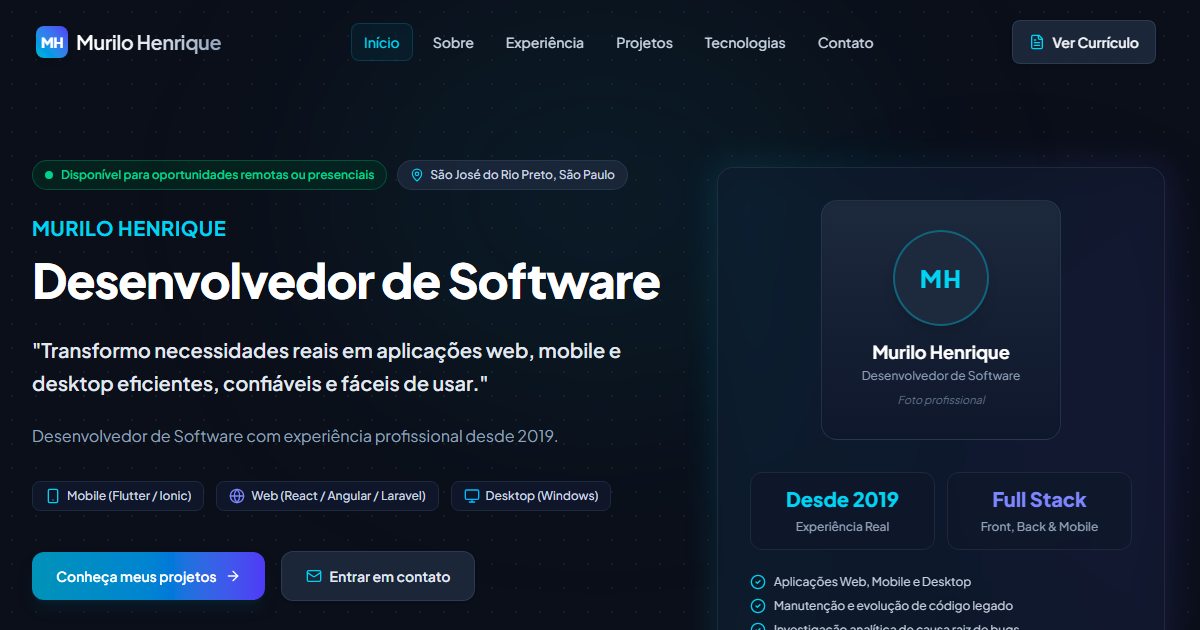
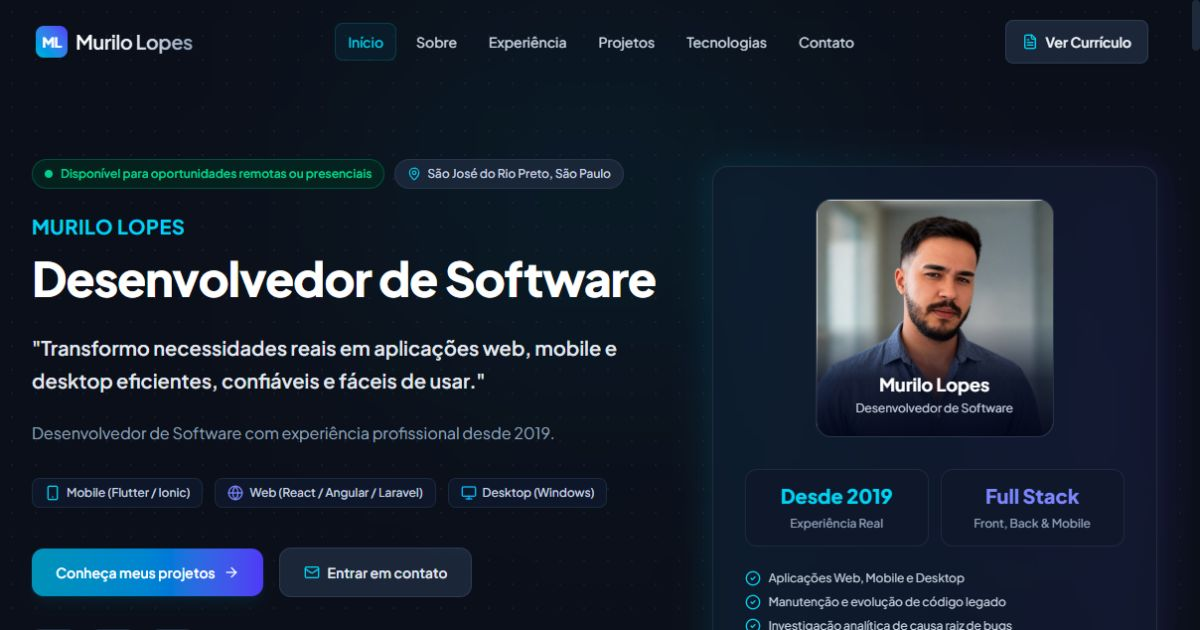
feat: update professional identity and profile photo

diff --git a/src/components/Hero.tsx b/src/components/Hero.tsx
@@ -1,5 +1,5 @@
 import React from 'react';
-import { personalInfo, professionalLinks } from '../data/portfolioData';
+import { personalInfo, professionalLinks, professionalPhoto } from '../data/portfolioData';
 import { ArrowRight, Mail, Linkedin, Github, MapPin, CheckCircle2, Smartphone, Monitor, Globe } from 'lucide-react';
 import { getPreferredScrollBehavior } from '../utils/motion';
 
@@ -135,14 +135,22 @@ export const Hero: React.FC = () => {
               
               <div className="relative glass-card rounded-2xl p-6 sm:p-8 space-y-6">
                 
-                {/* Photo Placeholder / Avatar Card */}
-                <div className="relative aspect-square max-w-[240px] mx-auto rounded-2xl bg-gradient-to-b from-slate-800 to-slate-900 border border-slate-700/60 flex flex-col items-center justify-center p-6 text-center shadow-inner group">
-                  <div className="w-24 h-24 rounded-full bg-slate-800 border-2 border-cyan-500/40 flex items-center justify-center shadow-lg mb-3 text-cyan-400 font-extrabold text-2xl tracking-wider">
-                    MH
+                {/* Professional photo card */}
+                <div className="relative aspect-square max-w-[240px] mx-auto overflow-hidden rounded-2xl bg-gradient-to-b from-slate-800 to-slate-900 border border-slate-700/60 text-center shadow-inner group">
+                  <img
+                    src={professionalPhoto.src}
+                    alt={professionalPhoto.alt}
+                    width={professionalPhoto.width}
+                    height={professionalPhoto.height}
+                    loading="eager"
+                    decoding="async"
+                    fetchPriority="high"
+                    className="h-full w-full object-cover object-center"
+                  />
+                  <div className="absolute inset-x-0 bottom-0 bg-gradient-to-t from-slate-950/95 via-slate-950/75 to-transparent px-5 pb-5 pt-12">
+                    <h3 className="text-white font-bold text-lg">{personalInfo.name}</h3>
+                    <p className="text-slate-300 text-xs mt-0.5">{personalInfo.role}</p>
                   </div>
-                  <h3 className="text-white font-bold text-lg">{personalInfo.name}</h3>
-                  <p className="text-slate-400 text-xs mt-0.5">{personalInfo.role}</p>
-                  <p className="text-slate-500 text-[11px] mt-2 italic">Foto profissional</p>
                 </div>
 
                 {/* Quick Highlights Grid */}

diff --git a/src/components/Header.tsx b/src/components/Header.tsx
@@ -12,6 +12,11 @@ export const Header: React.FC<HeaderProps> = ({ onOpenResumeModal }) => {
   const [isScrolled, setIsScrolled] = useState(false);
   const [mobileMenuOpen, setMobileMenuOpen] = useState(false);
   const [activeSection, setActiveSection] = useState('inicio');
+  const professionalInitials = personalInfo.name
+    .split(/\s+/)
+    .map((namePart) => namePart[0])
+    .join('')
+    .slice(0, 2);
 
   useEffect(() => {
     const handleScroll = () => {
@@ -64,7 +69,7 @@ export const Header: React.FC<HeaderProps> = ({ onOpenResumeModal }) => {
             className="group flex items-center space-x-2 text-lg sm:text-xl font-bold tracking-tight text-white focus:outline-none focus:ring-2 focus:ring-cyan-500 rounded-md px-1 py-0.5"
           >
             <div className="w-8 h-8 rounded-lg bg-gradient-to-tr from-cyan-500 to-indigo-600 flex items-center justify-center text-white font-extrabold text-sm shadow-md group-hover:scale-105 transition-transform">
-              MH
+              {professionalInitials}
             </div>
             <span className="bg-gradient-to-r from-white via-slate-200 to-slate-400 bg-clip-text text-transparent">
               {personalInfo.name}

diff --git a/src/data/portfolioData.ts b/src/data/portfolioData.ts
@@ -1,7 +1,7 @@
 import type { PersonalInfo, Experience, Project, ProjectImage, TechCategory, Differentiator } from '../types';
 
 export const personalInfo: PersonalInfo = {
-  name: 'Murilo Henrique',
+  name: 'Murilo Lopes',
   role: 'Desenvolvedor de Software',
   careerStartYear: '2019',
   experienceLabel: 'Desde 2019',
@@ -13,6 +13,13 @@ export const personalInfo: PersonalInfo = {
   heroSubtitle: 'Transformo necessidades reais em aplicações web, mobile e desktop eficientes, confiáveis e fáceis de usar.',
   heroDescription: 'Desenvolvedor de Software com experiência profissional desde 2019.',
 };
+
+export const professionalPhoto = {
+  src: '/images/profile/murilo-lopes.jpg',
+  alt: `Foto profissional de ${personalInfo.name}`,
+  width: 400,
+  height: 400,
+} as const;
 
 export const professionalLinks = {
   linkedin: {

diff --git a/src/config/seo.ts b/src/config/seo.ts
@@ -3,9 +3,8 @@ import { coreTechnologies, personalInfo, professionalLinks } from '../data/portf
 export const seoConfig = {
   siteUrlEnvironmentVariable: 'VITE_SITE_URL',
   localSiteUrl: 'http://localhost:3000',
-  title: 'Murilo Henrique | Desenvolvedor de Software',
-  description:
-    'Portfólio de Murilo Henrique, Desenvolvedor de Software com experiência profissional desde 2019 em aplicações web, mobile e desktop.',
+  title: `${personalInfo.name} | ${personalInfo.role}`,
+  description: `Portfólio de ${personalInfo.name}, ${personalInfo.role} com experiência profissional desde 2019 em aplicações web, mobile e desktop.`,
   author: personalInfo.name,
   locale: 'pt_BR',
   language: 'pt-BR',

diff --git a/README.md b/README.md
@@ -1,4 +1,4 @@
-# Portfólio — Murilo Henrique
+# Portfólio — Murilo Lopes
 
 Portfólio profissional desenvolvido como uma aplicação React de página única.
 
